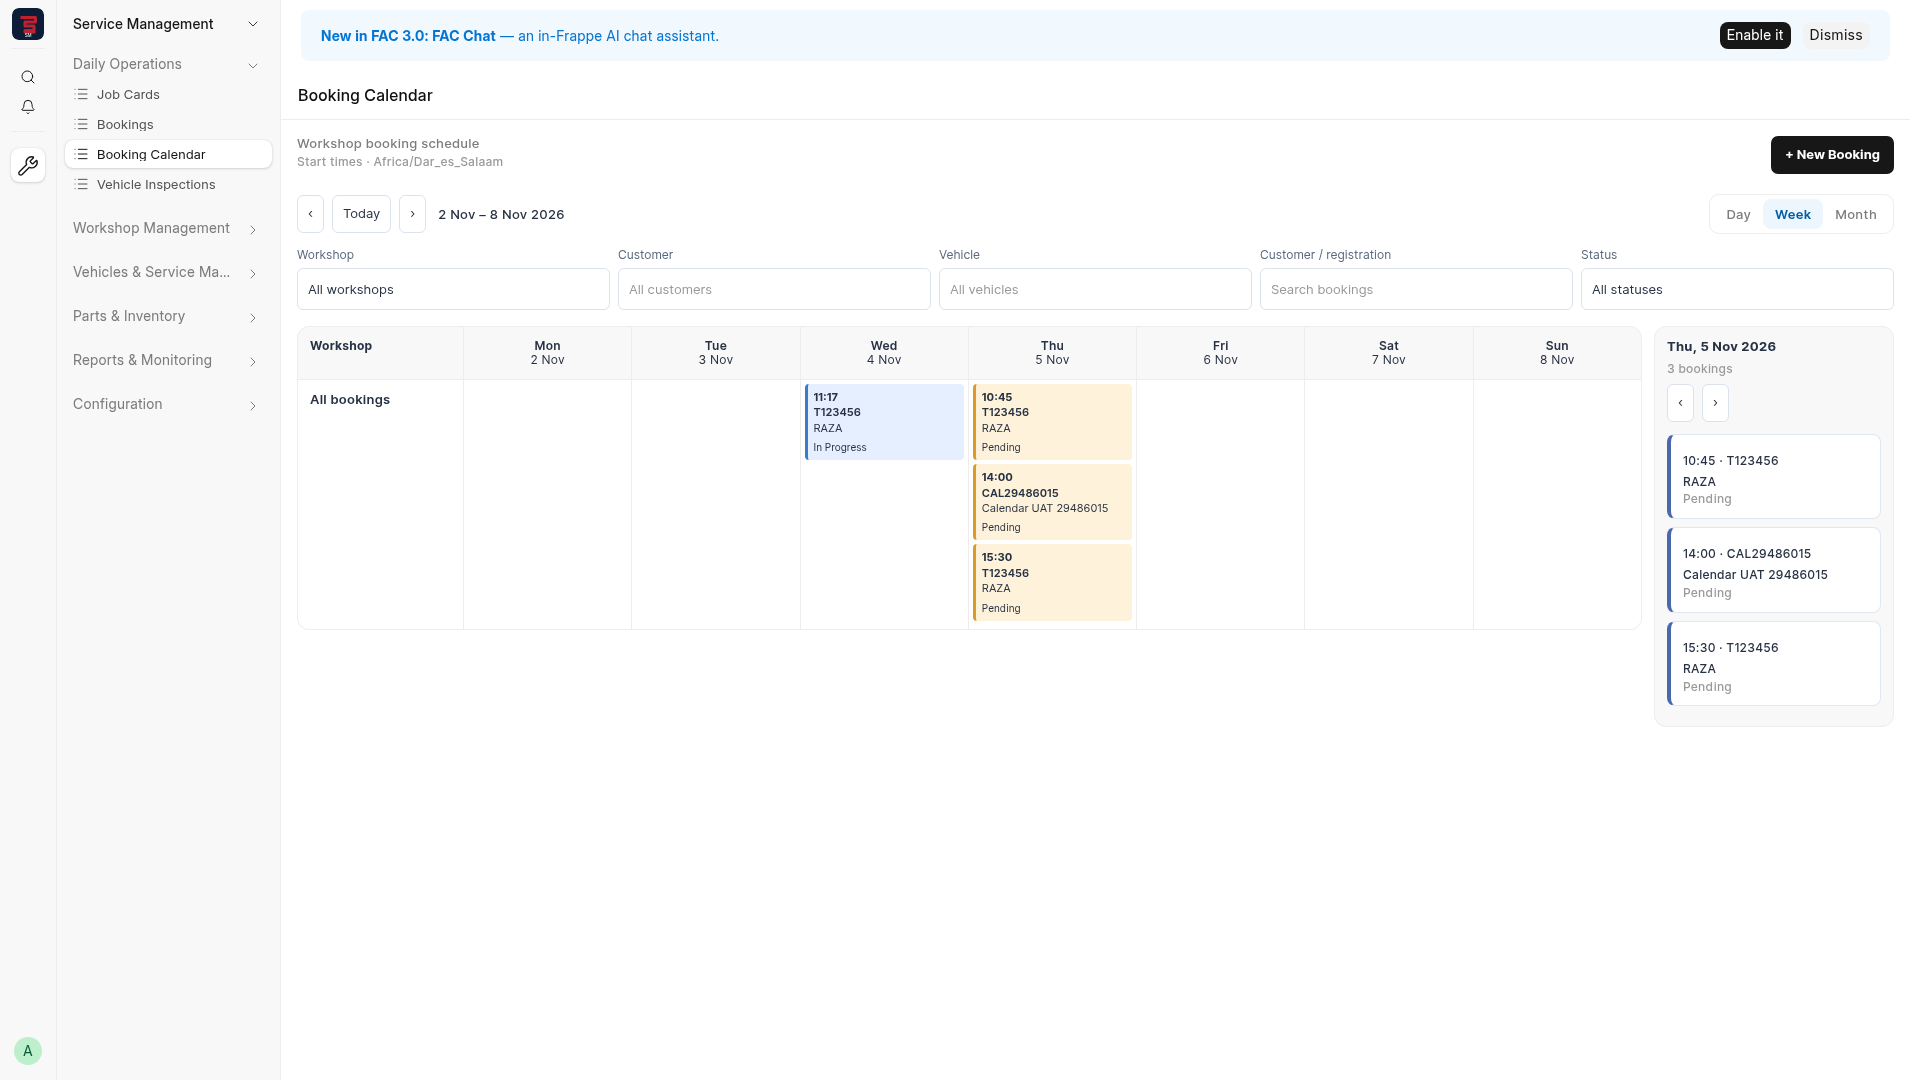
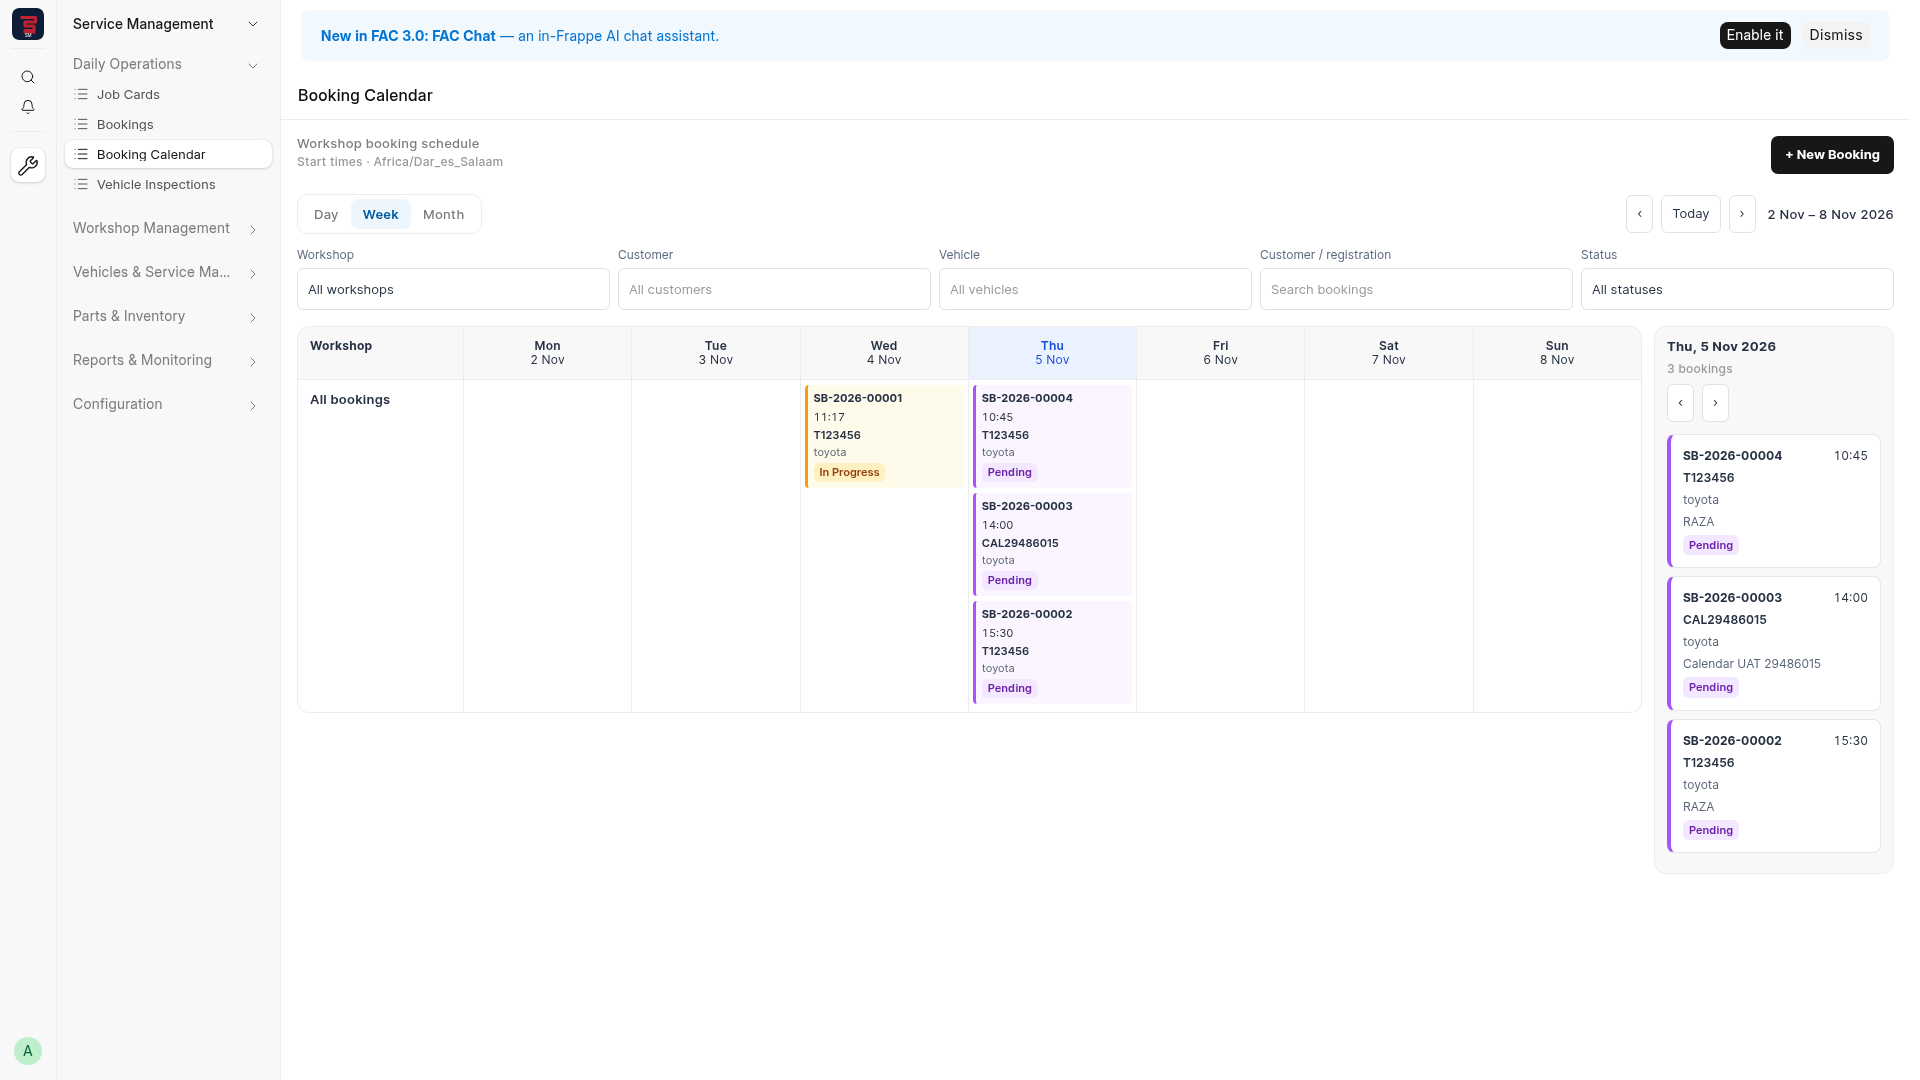
fix(bookings): align calendar cards with approved design

diff --git a/frontend/src/components/BookingCalendar.vue b/frontend/src/components/BookingCalendar.vue
@@ -19,7 +19,9 @@
       </button>
     </header>
 
-    <div class="mb-3 flex flex-wrap items-center justify-between gap-3">
+    <div
+      class="sm-calendar-toolbar mb-3 flex flex-wrap items-center justify-between gap-3"
+    >
       <div class="flex items-center gap-2">
         <button
           class="sm-control"
@@ -41,7 +43,7 @@
         <strong class="ml-1 text-sm">{{ rangeLabel }}</strong>
       </div>
       <div
-        class="flex rounded-md border border-gray-200 p-1"
+        class="sm-view-switch flex rounded-md border border-gray-200 p-1"
         role="group"
         aria-label="Calendar view"
       >
@@ -195,12 +197,20 @@
             <div
               v-for="day in visibleDays"
               :key="day"
-              class="bg-gray-50 p-3 text-center text-xs font-semibold"
+              class="sm-week-heading bg-gray-50 text-center text-xs font-semibold"
+              :class="{ 'sm-selected-day': day === agendaDate }"
             >
-              {{ formatDay(day, { weekday: 'short' })
-              }}<span class="block font-normal">{{
-                formatDay(day, { day: 'numeric', month: 'short' })
-              }}</span>
+              <button
+                type="button"
+                class="w-full p-3"
+                :aria-pressed="day === agendaDate"
+                @click="agendaDate = day"
+              >
+                {{ formatDay(day, { weekday: 'short' }) }}
+                <span class="block font-normal">{{
+                  formatDay(day, { day: 'numeric', month: 'short' })
+                }}</span>
+              </button>
             </div>
             <template v-for="group in groups" :key="group.key">
               <div class="bg-white p-3 text-sm font-semibold">
@@ -227,18 +237,7 @@
                   :class="statusClass(booking.status)"
                   @click="selectBooking(booking)"
                 >
-                  <span class="font-bold">{{
-                    timeLabel(booking.booking_time)
-                  }}</span>
-                  <span class="block font-semibold">{{
-                    booking.registration_number
-                  }}</span>
-                  <span class="block truncate">{{
-                    booking.customer_name
-                  }}</span>
-                  <span class="mt-1 block text-[10px]">{{
-                    booking.status
-                  }}</span>
+                  <BookingSummary :booking="booking" compact />
                 </button>
               </div>
             </template>
@@ -280,17 +279,14 @@
             v-for="booking in recordsForDay(agendaDate)"
             :key="booking.name"
             class="sm-agenda mb-2 w-full text-left"
+            :class="statusClass(booking.status)"
             type="button"
             @click="selectBooking(booking)"
           >
-            <strong class="text-xs"
-              >{{ timeLabel(booking.booking_time) }} ·
-              {{ booking.registration_number }}</strong
-            >
-            <span class="mt-1 block text-xs">{{ booking.customer_name }}</span>
-            <span class="mt-1 block text-xs text-gray-500">{{
-              booking.status
-            }}</span>
+            <BookingSummary
+              :booking="booking"
+              :show-bay="bayManagementEnabled"
+            />
           </button>
           <p
             v-if="!recordsForDay(agendaDate).length"
@@ -327,16 +323,13 @@
               :key="booking.name"
               type="button"
               class="sm-agenda mb-2 w-full text-left"
+              :class="statusClass(booking.status)"
               @click="selectBooking(booking)"
             >
-              <strong
-                >{{ timeLabel(booking.booking_time) }} ·
-                {{ booking.registration_number }}</strong
-              >
-              <span class="block text-sm"
-                >{{ booking.customer_name }} · {{ booking.workshop }}</span
-              >
-              <span class="text-xs">{{ booking.status }}</span>
+              <BookingSummary
+                :booking="booking"
+                :show-bay="bayManagementEnabled"
+              />
             </button>
           </div>
           <aside
@@ -379,24 +372,10 @@
           :key="booking.name"
           type="button"
           class="sm-agenda mb-2 w-full text-left"
+          :class="statusClass(booking.status)"
           @click="selectBooking(booking)"
         >
-          <span class="flex items-center justify-between gap-3">
-            <strong
-              >{{ timeLabel(booking.booking_time) }} ·
-              {{ booking.registration_number }}</strong
-            >
-            <span class="rounded bg-gray-100 px-2 py-1 text-xs">{{
-              booking.status
-            }}</span>
-          </span>
-          <span class="mt-1 block text-sm">{{ booking.customer_name }}</span>
-          <span class="mt-1 block text-xs text-gray-500"
-            >{{ booking.workshop
-            }}<template v-if="bayManagementEnabled && booking.bay">
-              · {{ booking.bay }}</template
-            ></span
-          >
+          <BookingSummary :booking="booking" :show-bay="bayManagementEnabled" />
         </button>
       </div>
       <p v-if="!bookings.length" class="mt-4 text-sm text-gray-500">
@@ -518,6 +497,7 @@ import { computed, onBeforeUnmount, ref, watch } from 'vue'
 import { frappeRequest } from 'frappe-ui'
 import CreateBooking from './CalendarCreateBooking.vue'
 import RecordLink from './CalendarRecordLink.vue'
+import BookingSummary from './CalendarBookingSummary.vue'
 import {
   addDays,
   daysBetween,
@@ -861,20 +841,43 @@ watch(query, () => {
   line-height: 1.4;
 }
 .sm-pending {
-  background: #fff2da;
-  border-color: #dc9b27;
+  background: #faf5ff;
+  border-color: #a855f7;
 }
 .sm-progress {
-  background: #e5efff;
-  border-color: #377cce;
+  background: #fffbeb;
+  border-color: #f59e0b;
 }
 .sm-complete {
   background: #e8f8ee;
   border-color: #299653;
 }
 .sm-closed {
-  background: #fee6e9;
-  border-color: #bc2230;
+  background: #f8fafc;
+  border-color: #64748b;
+}
+.sm-calendar-toolbar .sm-view-switch {
+  order: -1;
+}
+.sm-week-heading.sm-selected-day {
+  background: #eaf2ff;
+  color: #1d4ed8;
+}
+.sm-week-heading button:focus-visible {
+  outline: 2px solid #2563eb;
+  outline-offset: -2px;
+}
+.sm-agenda.sm-pending {
+  border-left-color: #a855f7;
+}
+.sm-agenda.sm-progress {
+  border-left-color: #f59e0b;
+}
+.sm-agenda.sm-complete {
+  border-left-color: #299653;
+}
+.sm-agenda.sm-closed {
+  border-left-color: #64748b;
 }
 .sm-agenda {
   border: 1px solid #e0e7f0;

diff --git a/frontend/src/components/CalendarBookingSummary.vue b/frontend/src/components/CalendarBookingSummary.vue
@@ -1,0 +1,97 @@
+<template>
+  <span class="sm-booking-summary" :class="{ 'sm-compact': compact }">
+    <span class="sm-booking-heading">
+      <strong>{{ booking.name }}</strong>
+      <span class="sm-booking-time">{{ timeLabel(booking.booking_time) }}</span>
+    </span>
+    <span class="sm-booking-vehicle">{{ booking.registration_number }}</span>
+    <span v-if="booking.vehicle_model" class="sm-booking-model">
+      {{ booking.vehicle_model
+      }}<template v-if="showBay && booking.bay"> · {{ booking.bay }}</template>
+    </span>
+    <span class="sm-booking-customer">{{ booking.customer_name }}</span>
+    <span class="sm-status" :class="statusClass">{{ booking.status }}</span>
+  </span>
+</template>
+
+<script setup>
+import { computed } from 'vue'
+import { timeLabel } from '@/utils/calendarViews.mjs'
+const props = defineProps({
+  booking: { type: Object, required: true },
+  compact: Boolean,
+  showBay: Boolean,
+})
+const statusClass = computed(
+  () =>
+    ({
+      Pending: 'sm-status-pending',
+      'In Progress': 'sm-status-progress',
+      Completed: 'sm-status-complete',
+      Closed: 'sm-status-closed',
+    }[props.booking.status])
+)
+</script>
+
+<style scoped>
+.sm-booking-summary {
+  display: grid;
+  gap: 4px;
+  min-width: 0;
+  font-size: 12px;
+}
+.sm-booking-heading {
+  display: flex;
+  flex-wrap: wrap;
+  justify-content: space-between;
+  gap: 4px 8px;
+}
+.sm-booking-heading strong {
+  overflow-wrap: anywhere;
+}
+.sm-booking-time {
+  white-space: nowrap;
+  font-variant-numeric: tabular-nums;
+}
+.sm-booking-vehicle {
+  font-weight: 600;
+}
+.sm-booking-model,
+.sm-booking-customer {
+  color: #586478;
+  overflow-wrap: anywhere;
+}
+.sm-status {
+  justify-self: start;
+  border-radius: 6px;
+  padding: 2px 6px;
+  font-size: 11px;
+  font-weight: 600;
+}
+.sm-status-pending {
+  background: #f3e8ff;
+  color: #6b21a8;
+}
+.sm-status-progress {
+  background: #fff0c2;
+  color: #92400e;
+}
+.sm-status-complete {
+  background: #dcfce7;
+  color: #166534;
+}
+.sm-status-closed {
+  background: #e5e7eb;
+  color: #374151;
+}
+.sm-compact {
+  font-size: 11px;
+  gap: 2px;
+}
+.sm-compact .sm-booking-heading {
+  display: grid;
+}
+.sm-compact .sm-booking-customer {
+  display: none;
+}
+</style>

diff --git a/docs/phase3-booking-calendar/verification.md b/docs/phase3-booking-calendar/verification.md
@@ -56,7 +56,7 @@ Stored seconds remain intact during date-only rescheduling.
 | Bay-enabled calendar | [1920 × 1080](bay-enabled.png) |
 | Bay-disabled calendar | [1920 × 1080](bay-disabled.png) |
 
-## Deployment scope and review limitation
+## Design comparison and deployment scope
 
 Only ServiceMS frontend was built. Target-site Page reload, calendar navigation
 synchronization and cache clearing were used. No framework upgrades, migrations,
@@ -64,7 +64,22 @@ bench-wide updates, maintenance mode or service restarts occurred. Existing loca
 generated assets were preserved before building and excluded from commits.
 Marked Calendar UAT records remain on the test site for Product Owner review.
 
-The Product Owner replied that the approved design was attached, but no design
-image was available to this session. Exact comparison with that reference remains
-pending. These screenshots show the actual implementation; they are not mockups.
-PR #67 remains draft and unmerged for Product Owner approval.
+The approved desktop/mobile mockup was subsequently supplied and compared with
+actual browser captures. The supported structure is retained: Bay-by-day Week
+grid, right-hand selected-day agenda, Day/Week/Month controls, New Booking and
+mobile agenda cards. Cards now show booking ID, registration, vehicle model and
+consistent status badges. Clicking a Week header selects/highlights that date and
+updates the daily agenda. Six additional authenticated browser checks passed;
+the 13 responsive/scrolling checks and native navigation/edit checks were rerun.
+
+Supported differences from the mockup are deliberate: this installed Frappe
+version supplies its own native Dock/header/Sidebar; booking IDs use the actual
+SB naming series; statuses are Pending, In Progress, Completed and Closed. No
+end times or Confirmed/Planned statuses are invented. There is no Service Type
+field on Service Booking, so existing workshop/customer/vehicle/status filters
+remain. The native primary button styling is preserved.
+
+These screenshots show the actual implementation, not mockups. Exact pixel
+matching of the outer mockup shell would require replacing native Frappe chrome
+and is outside the requested scope. No implementation blocker remains from the
+design comparison. PR #67 remains draft and unmerged for Product Owner approval.
